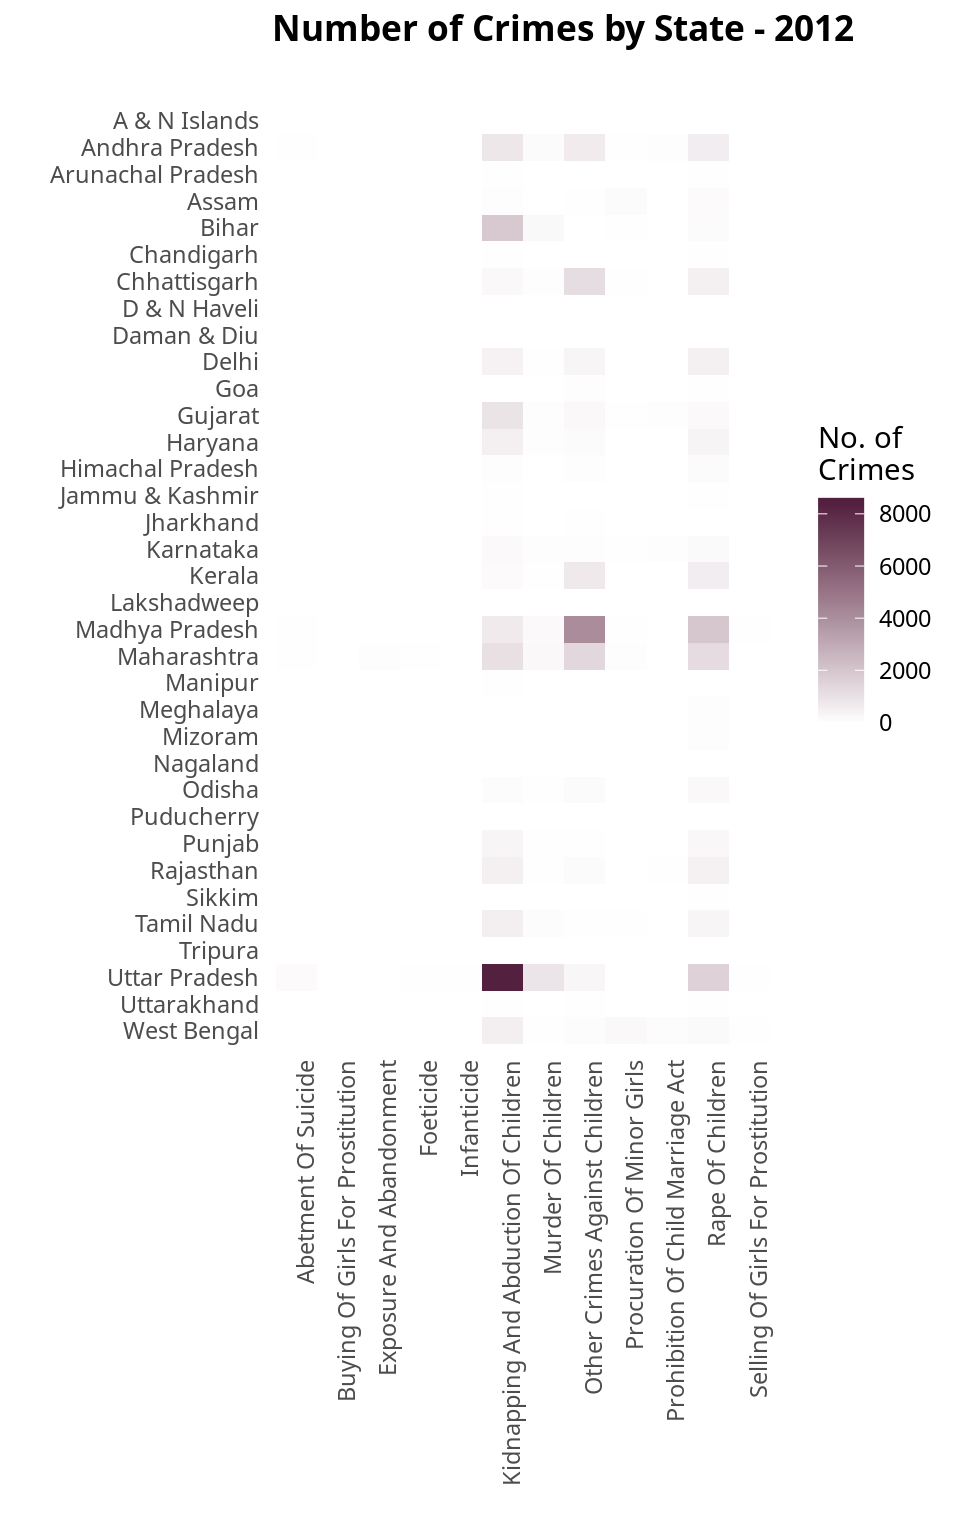
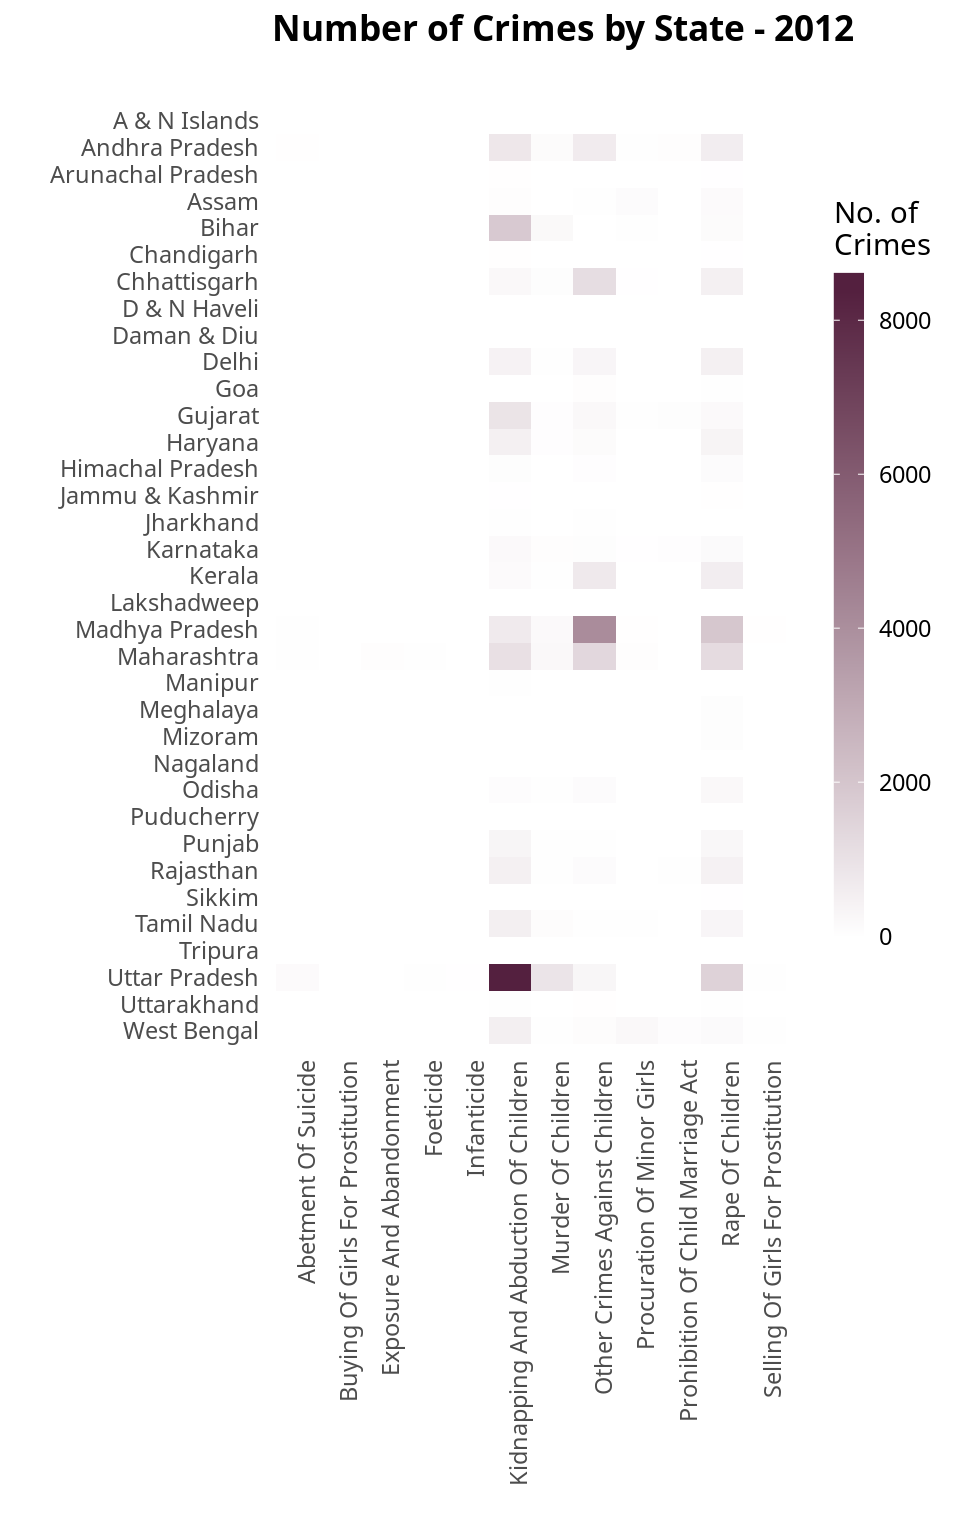
Lengthen legends on 3 charts to improve visuals

diff --git a/content/blog/2018-02-22-crime-against-children-in-india.html b/content/blog/2018-02-22-crime-against-children-in-india.html
@@ -266,25 +266,15 @@ level_data %&gt;%
           axis.ticks = element_blank(),
           panel.border = element_blank(),
           panel.grid = element_blank(), 
-          plot.title = element_text(hjust = 0, face = &quot;bold&quot;)) +
+          plot.title = element_text(hjust = 0, face = &quot;bold&quot;),
+          legend.key.height = unit(18, &quot;mm&quot;), 
+          legend.key.width = unit(4, &quot;mm&quot;),
+          legend.box.just = &quot;top&quot;) +
     scale_fill_gradient(name = &quot;No. of\nCrimes&quot;,low=&quot;white&quot;, high=&quot;#54203F&quot;) +
     labs(x = &quot;&quot;, y = &quot;&quot;,
          title = &quot;Number of Crimes by State - 2012&quot;,
          subtitle = &quot;&quot;)</code></pre>
 <p><img src="/blog/2018-02-22-crime-against-children-in-india_files/figure-html/heatmap-1.png" width="480" /></p>
-<pre class="r"><code># ggplotly(lplot, tooltip = c(&quot;x&quot;,&quot;y&quot;,&quot;z&quot;)) %&gt;% 
-#   add_annotations(
-#     yref=&quot;paper&quot;, 
-#     xref=&quot;paper&quot;, 
-#     y=1.08, 
-#     x=0, 
-#     text=&quot;Number of Crimes by State - 2012&quot;,
-#     align = &quot;left&quot;,
-#     valign = &quot;bottom&quot;,
-#     showarrow=F, 
-#     font=list(size=20)
-#   ) %&gt;% 
-#   layout(margin = list(t=50))</code></pre>
 <p>As you can see, kidnappings and rape seem most significant across India. ‘Other’ crime is also significant – more research is necessary to learn what that comprises. It also appears that about half of the crimes are very low or 0 by count, which makes me suspect that data was unavaliable or that such crimes don’t often get reported or prosecuted.</p>
 </div>
 <div id="total-crime-by-state" class="section level4">
@@ -480,7 +470,10 @@ median_plot &lt;- ggplot() +
   coord_map() +
   scale_fill_gradient(name=&quot;Median&quot;, limits=c(0,5200), low=&quot;#ede5cf&quot;, high=&quot;#54203F&quot;) +
   labs(title=&quot;Median Number of Crimes Against Children\n2001 - 2012&quot;, x = &quot;&quot;, y = &quot;&quot;) +
-  map_theme + theme(plot.title = element_text(hjust=0))
+  map_theme + theme(plot.title = element_text(hjust=0),
+                    legend.key.height = unit(18, &quot;mm&quot;), 
+                    legend.key.width = unit(4, &quot;mm&quot;),
+                    legend.box.just = &quot;top&quot;)
 
 g &lt;- tableGrob(median.table,rows=NULL, theme = myt) 
 
